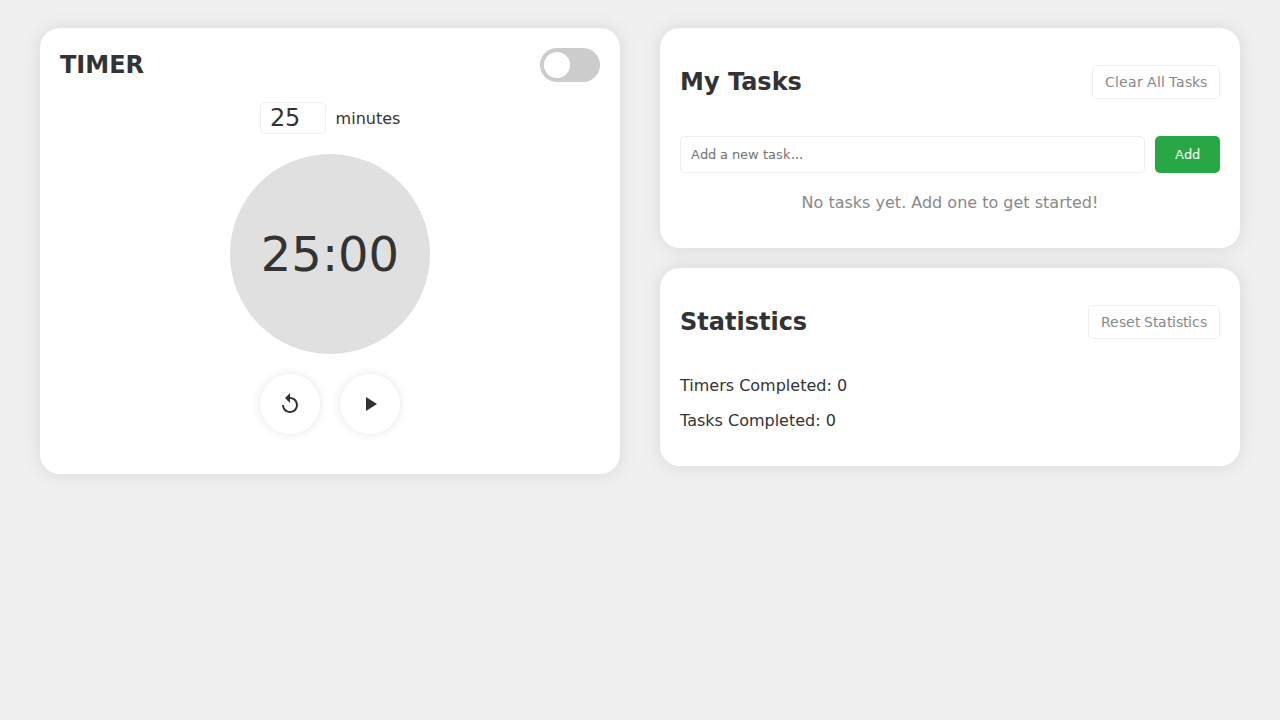
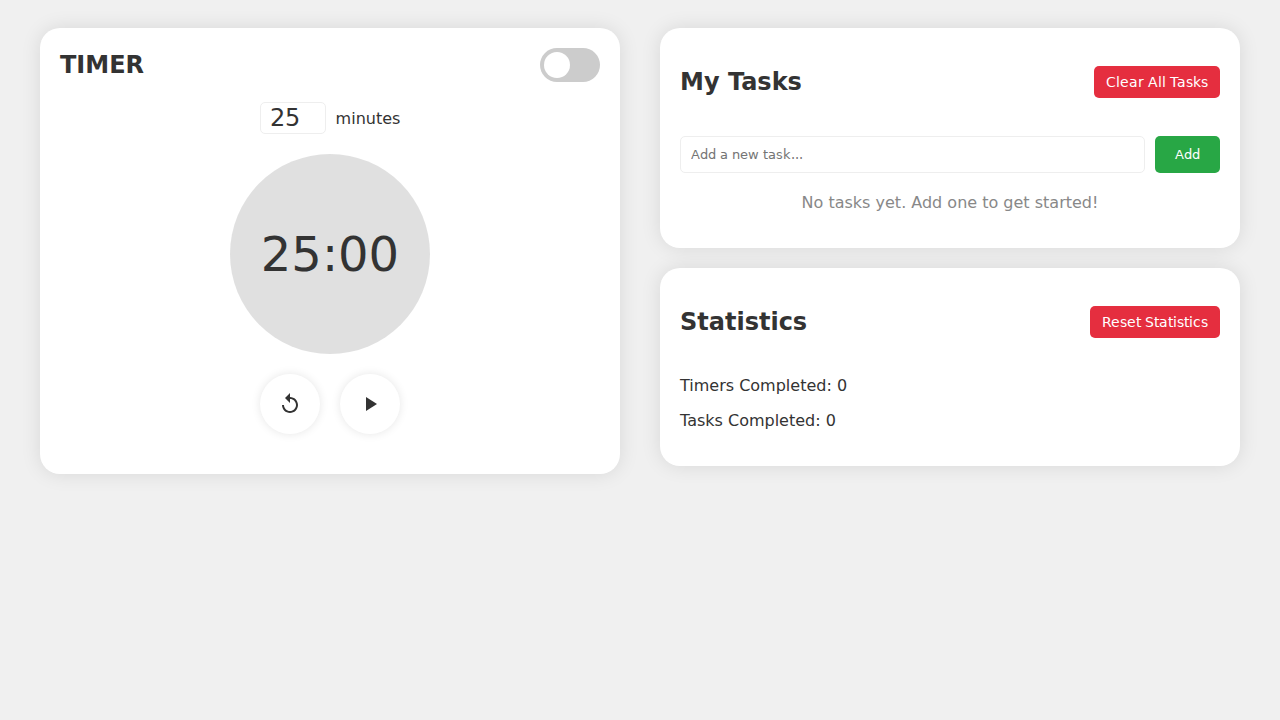
fix: Update reset button styles to be more prominent
This commit updates the CSS for the 'Clear All Tasks' and 'Reset Statistics' buttons to make them more visible. The buttons now have a red background and white text, as requested by the user, ensuring they stand out in both light and dark modes.

Changed region(s): [[0.8438, 0.4278, 0.9688, 0.4889], [0.8438, 0.0917, 0.9688, 0.1528]]

diff --git a/style.css b/style.css
@@ -208,17 +208,17 @@ body {
 
 .btn-secondary {
     padding: 8px 12px;
-    border: 1px solid var(--border-color);
-    background-color: transparent;
-    color: var(--secondary-text-color);
+    border: none;
+    background-color: var(--primary-color);
+    color: white;
     border-radius: 5px;
     cursor: pointer;
     font-size: 0.9rem;
+    transition: background-color 0.3s;
 }
 
 .btn-secondary:hover {
-    background-color: var(--timer-bg-color);
-    color: var(--text-color);
+    background-color: #c02431; /* Darker red for hover */
 }
 
 .empty-state {
